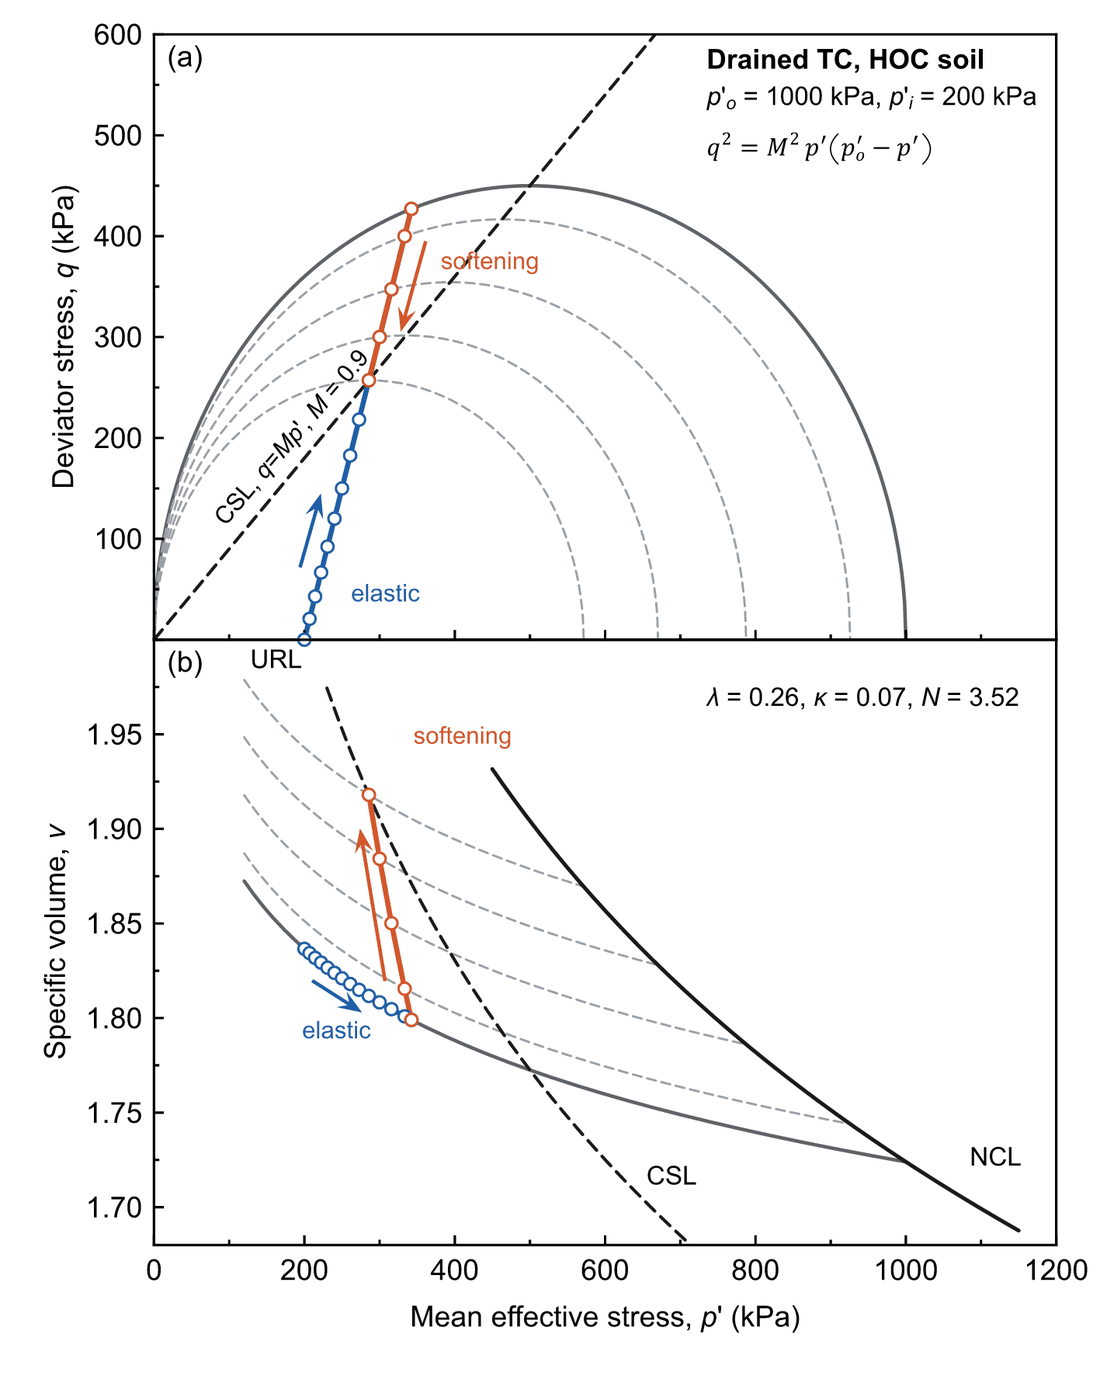
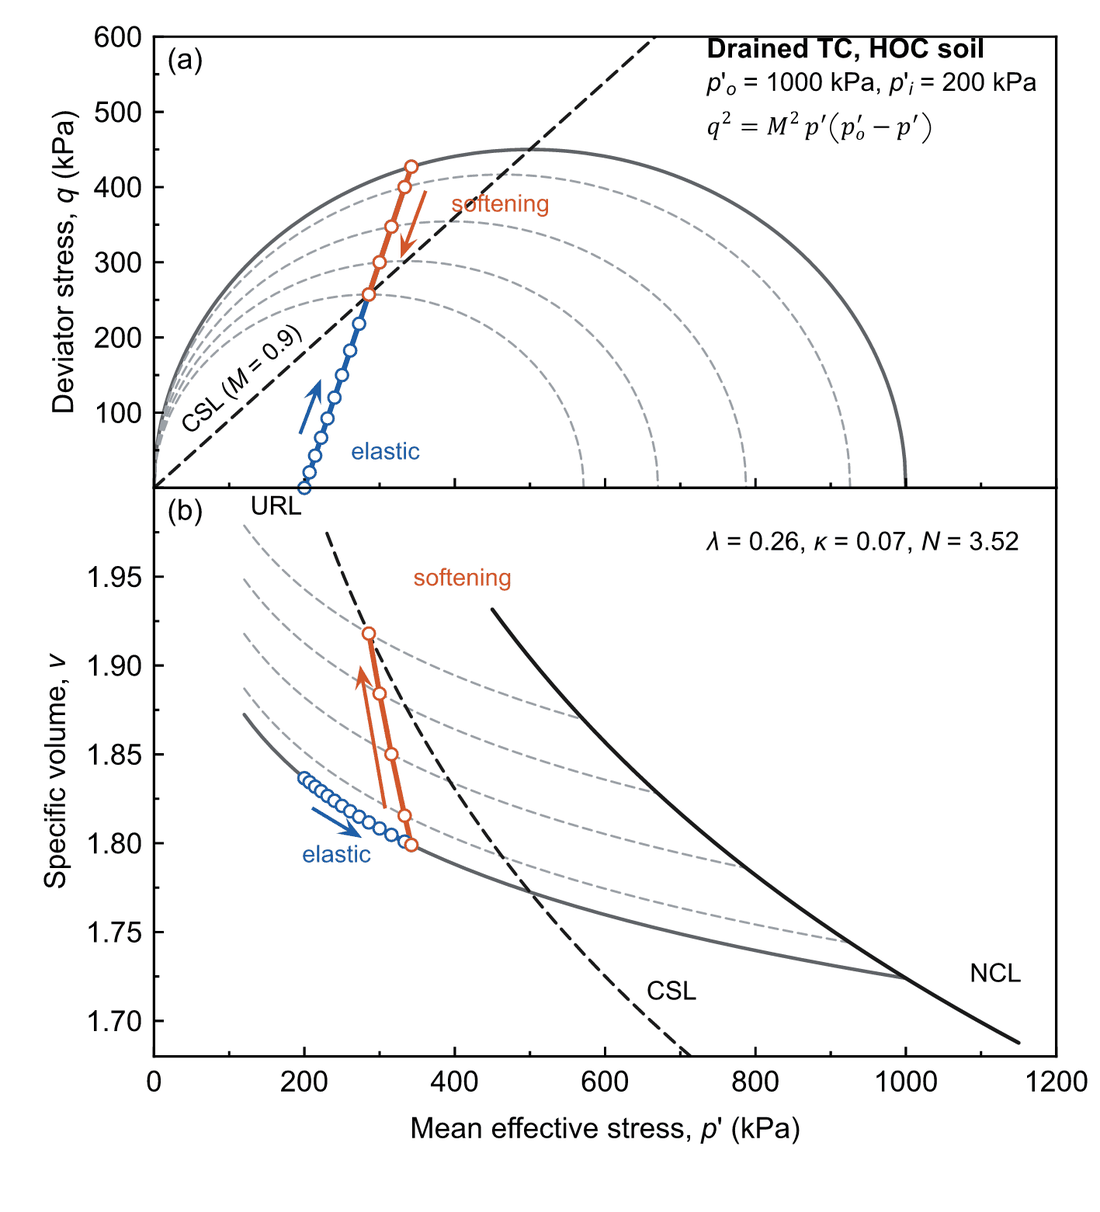
Cam-clay figure at one scale for q and p'

diff --git a/index.html b/index.html
@@ -177,7 +177,7 @@ claude mcp add patina-plot -- "/Applications/Patina Plot.app/Contents/MacOS/pati
       <figure class="sheet"><img src="assets/triaxial-shearing.png" width="1039" height="780" loading="lazy" alt="Deviator stress against axial strain for three stages of a multistage triaxial test">
         <figcaption>Deviator stress against axial strain for the three stages of the
           test.</figcaption></figure>
-      <figure class="sheet"><img src="assets/cam-clay.png" width="1100" height="1376" loading="lazy" alt="Modified Cam-clay drained triaxial test on a heavily overconsolidated soil: the stress path with the initial and softening yield loci and the critical state line in q against p', and specific volume against p' with the normal compression, critical state and unloading-reloading lines">
+      <figure class="sheet"><img src="assets/cam-clay.png" width="1100" height="1212" loading="lazy" alt="Modified Cam-clay drained triaxial test on a heavily overconsolidated soil: the stress path with the initial and softening yield loci and the critical state line in q against p', and specific volume against p' with the normal compression, critical state and unloading-reloading lines">
         <figcaption>Cam-clay, drained test on a heavily overconsolidated soil: smooth yield loci
           as function plots, the path in q–p′ and v–p′.</figcaption></figure>
       <figure class="sheet"><img src="assets/water-retention.png" width="1100" height="880" loading="lazy" alt="Water content against suction for a sand and a silt loam on a log axis with van Genuchten fits, residuals underneath and a table of the fitted parameters">
